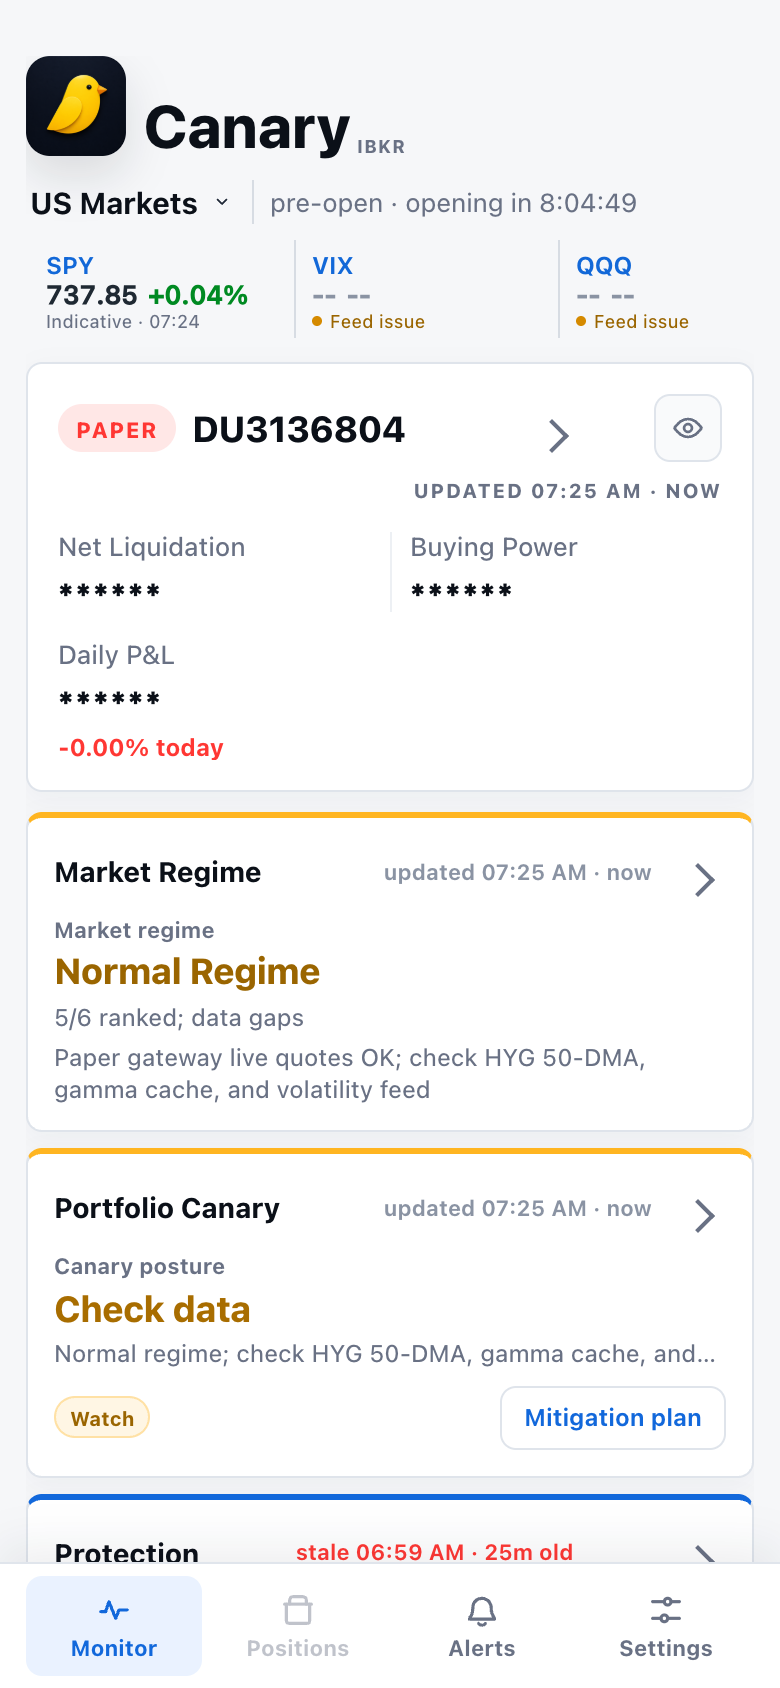
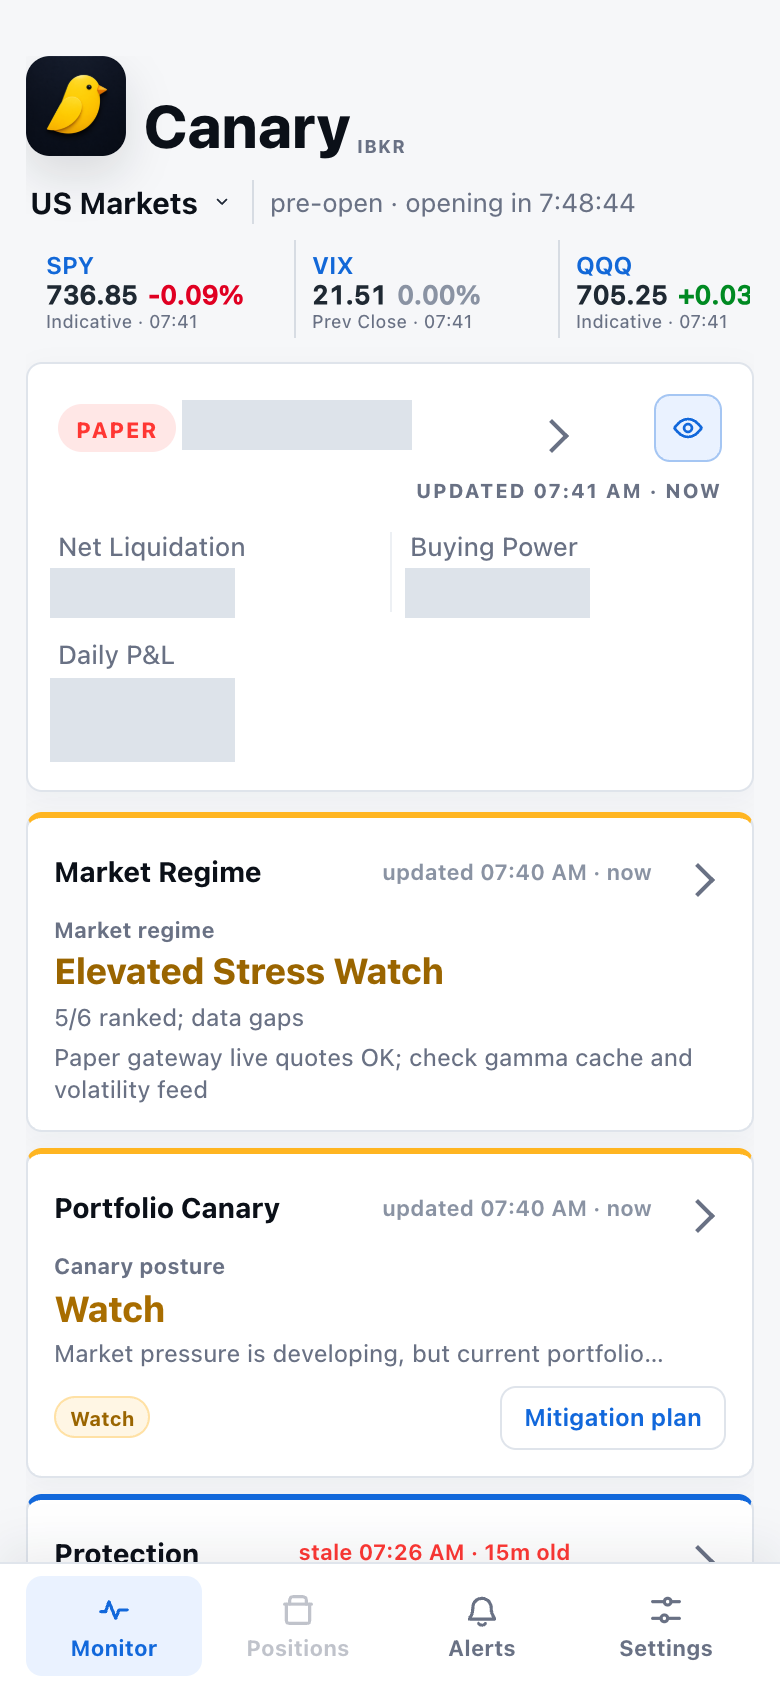
Update public site headline and screenshots

diff --git a/docs/index.html b/docs/index.html
@@ -3,20 +3,20 @@
 <head>
   <meta charset="utf-8">
   <meta name="viewport" content="width=device-width, initial-scale=1">
-  <title>IBKR MCP Server for TWS and Claude</title>
-  <meta name="description" content="Connect Interactive Brokers TWS or IB Gateway to Claude, Cursor, and Zed for read-only portfolio analysis, quotes, risk checks, and trading research.">
+  <title>ibkr canary for TWS and Claude</title>
+  <meta name="description" content="Connect Interactive Brokers TWS or IB Gateway to Claude, Cursor, and Zed with ibkr canary for read-only portfolio analysis, quotes, risk checks, and trading research.">
   <link rel="canonical" href="https://osauer.dev/ibkr/">
   <link rel="icon" type="image/png" href="social/canary-icon.png">
 
   <meta property="og:type" content="website">
   <meta property="og:url" content="https://osauer.dev/ibkr/">
-  <meta property="og:title" content="IBKR MCP server for TWS and portfolio workflows">
-  <meta property="og:description" content="Connect Interactive Brokers TWS or IB Gateway to Claude Desktop, Claude Code, Cursor, Zed, and other MCP hosts for portfolio analysis, risk checks, and trading research.">
+  <meta property="og:title" content="ibkr canary for TWS and portfolio workflows">
+  <meta property="og:description" content="Connect Interactive Brokers TWS or IB Gateway to Claude Desktop, Claude Code, Cursor, Zed, and other MCP hosts with ibkr canary for portfolio analysis, risk checks, and trading research.">
   <meta property="og:image" content="https://osauer.dev/ibkr/social/social-preview.png">
   <meta property="og:image:width" content="1280">
   <meta property="og:image:height" content="640">
   <meta name="twitter:card" content="summary_large_image">
-  <meta name="twitter:title" content="IBKR MCP server for TWS and portfolio workflows">
+  <meta name="twitter:title" content="ibkr canary for TWS and portfolio workflows">
   <meta name="twitter:description" content="Agentic IBKR portfolio analysis and trading research on live TWS or IB Gateway data.">
   <meta name="twitter:image" content="https://osauer.dev/ibkr/social/social-preview.png">
 
@@ -26,7 +26,7 @@
     "@graph": [
       {
         "@type": "SoftwareApplication",
-        "name": "ibkr",
+        "name": "ibkr canary",
         "alternateName": [
           "IBKR MCP Server",
           "IBKR MCP TWS",
@@ -37,10 +37,11 @@
           "IBKR Claude Desktop MCP",
           "Best IBKR MCP server for Claude Code",
           "Portfolio review with Claude and IBKR",
-          "osauer ibkr"
+          "osauer ibkr",
+          "ibkr canary"
         ],
         "url": "https://osauer.dev/ibkr/",
-        "description": "Local Interactive Brokers (IBKR) MCP server, CLI, and Go TWS API for agentic portfolio analysis, trading research, risk checks, and market workflows.",
+        "description": "ibkr canary is a local Interactive Brokers (IBKR) MCP server, CLI, Go TWS API, and Canary app for agentic portfolio analysis, trading research, risk checks, and market workflows.",
         "author": {
           "@type": "Person",
           "name": "Oliver Sauer",
@@ -70,7 +71,7 @@
           "https://pkg.go.dev/github.com/osauer/ibkr"
         ],
         "isAccessibleForFree": true,
-        "keywords": "ibkr osauer, osauer ibkr, IBKR MCP, IBKR MCP TWS, ibkr mcp tws, IBKR TWS MCP server, Interactive Brokers MCP server, Interactive Brokers portfolio analysis AI, portfolio review with Claude and IBKR, Claude IBKR portfolio review, agentic IBKR workflows, best IBKR MCP server for Claude Code, IBKR Claude Desktop MCP, TWS MCP server, IB Gateway MCP, Claude Desktop Interactive Brokers, TWS API, Claude Code, Cursor, Zed, Go",
+        "keywords": "ibkr canary, ibkr osauer, osauer ibkr, IBKR MCP, IBKR MCP TWS, ibkr mcp tws, IBKR TWS MCP server, Interactive Brokers MCP server, Interactive Brokers portfolio analysis AI, portfolio review with Claude and IBKR, Claude IBKR portfolio review, agentic IBKR workflows, best IBKR MCP server for Claude Code, IBKR Claude Desktop MCP, TWS MCP server, IB Gateway MCP, Claude Desktop Interactive Brokers, TWS API, Claude Code, Cursor, Zed, Go",
         "featureList": [
           "Agentic portfolio analysis workflow layer",
           "Prompted portfolio review with Claude and IBKR",
@@ -84,7 +85,7 @@
       },
       {
         "@type": "SoftwareSourceCode",
-        "name": "ibkr",
+        "name": "ibkr canary",
         "codeRepository": "https://github.com/osauer/ibkr",
         "programmingLanguage": "Go",
         "runtimePlatform": "macOS, Linux, Unix",
@@ -99,7 +100,7 @@
             "name": "What is the IBKR MCP server?",
             "acceptedAnswer": {
               "@type": "Answer",
-              "text": "ibkr mcp is a local Model Context Protocol server that lets Claude Desktop, Claude Code, Cursor, Zed, and other MCP hosts analyze Interactive Brokers account and market data through IB Gateway or TWS."
+              "text": "ibkr canary is a local Model Context Protocol server and Canary app that lets Claude Desktop, Claude Code, Cursor, Zed, and other MCP hosts analyze Interactive Brokers account and market data through IB Gateway or TWS."
             }
           },
           {
@@ -134,7 +135,7 @@
           {
             "@type": "ListItem",
             "position": 1,
-            "name": "ibkr",
+            "name": "ibkr canary",
             "item": "https://osauer.dev/ibkr/"
           }
         ]
@@ -619,7 +620,7 @@
   <div class="topline"></div>
 
   <header class="wrap nav" aria-label="Primary">
-    <a class="brand" href="https://osauer.dev/ibkr/" aria-label="ibkr home"><img src="social/canary-icon.png" width="192" height="192" alt="">ibkr</a>
+    <a class="brand" href="https://osauer.dev/ibkr/" aria-label="ibkr canary home"><img src="social/canary-icon.png" width="192" height="192" alt="">ibkr canary</a>
     <nav class="nav-links" aria-label="Page">
       <a href="#install">Install</a>
       <a href="https://github.com/osauer/ibkr">GitHub</a>
@@ -633,8 +634,8 @@
     <section class="wrap hero" aria-labelledby="hero-title">
       <div>
         <p class="eyebrow">Agentic IBKR workflows</p>
-        <h1 id="hero-title">IBKR MCP server for portfolio analysis and trading research</h1>
-        <p class="lead">Connect Interactive Brokers (IBKR) Gateway or TWS to Claude Desktop, Claude Code, Cursor, Zed, and other MCP hosts. Turn portfolio, options, quotes, scanners, breadth, gamma, regime, and data-quality checks into review workflows an assistant can actually use.</p>
+        <h1 id="hero-title">ibkr canary for portfolio analysis and trading research</h1>
+        <p class="lead">Connect Interactive Brokers (IBKR) Gateway or TWS to Claude Desktop, Claude Code, Cursor, Zed, and other MCP hosts. Turn portfolio, options, quotes, scanners, breadth, gamma, regime, Canary app checks, and data-quality checks into review workflows an assistant can actually use.</p>
         <p class="safety">The bundled MCP surface is read-side only: agents can analyze, monitor, and size plans without receiving order-entry tools.</p>
         <div class="actions" aria-label="Main actions">
           <a class="button primary" href="claude-desktop-interactive-brokers/">Claude Desktop Install</a>

diff --git a/docs/canary-remote/index.html b/docs/canary-remote/index.html
@@ -371,7 +371,7 @@
   <div class="topline"></div>
 
   <header class="wrap nav" aria-label="Primary">
-    <a class="brand" href="../" aria-label="ibkr home"><img src="../social/canary-icon.png" width="192" height="192" alt="">ibkr</a>
+    <a class="brand" href="../" aria-label="ibkr canary home"><img src="../social/canary-icon.png" width="192" height="192" alt="">ibkr canary</a>
     <nav class="nav-links" aria-label="Page">
       <a href="../">Home</a>
       <a href="https://github.com/osauer/ibkr/blob/main/docs/guides/mobile-app.md">Mobile guide</a>
@@ -470,7 +470,7 @@ ibkr app pair</code></pre>
     <section class="wrap" id="screenshots" aria-labelledby="screenshots-title">
       <div class="section-head">
         <h2 id="screenshots-title">Screenshots.</h2>
-        <p>These captures are from the real PWA served by <code>ibkr app</code> with account values masked.</p>
+        <p>These captures are from the real PWA served by <code>ibkr app</code> against a paper account, with account values visible.</p>
       </div>
       <div class="screens">
         <img src="../social/canary-app-mobile.png" width="780" height="1688" loading="lazy" alt="Canary mobile app with account, market regime, and portfolio canary panels">